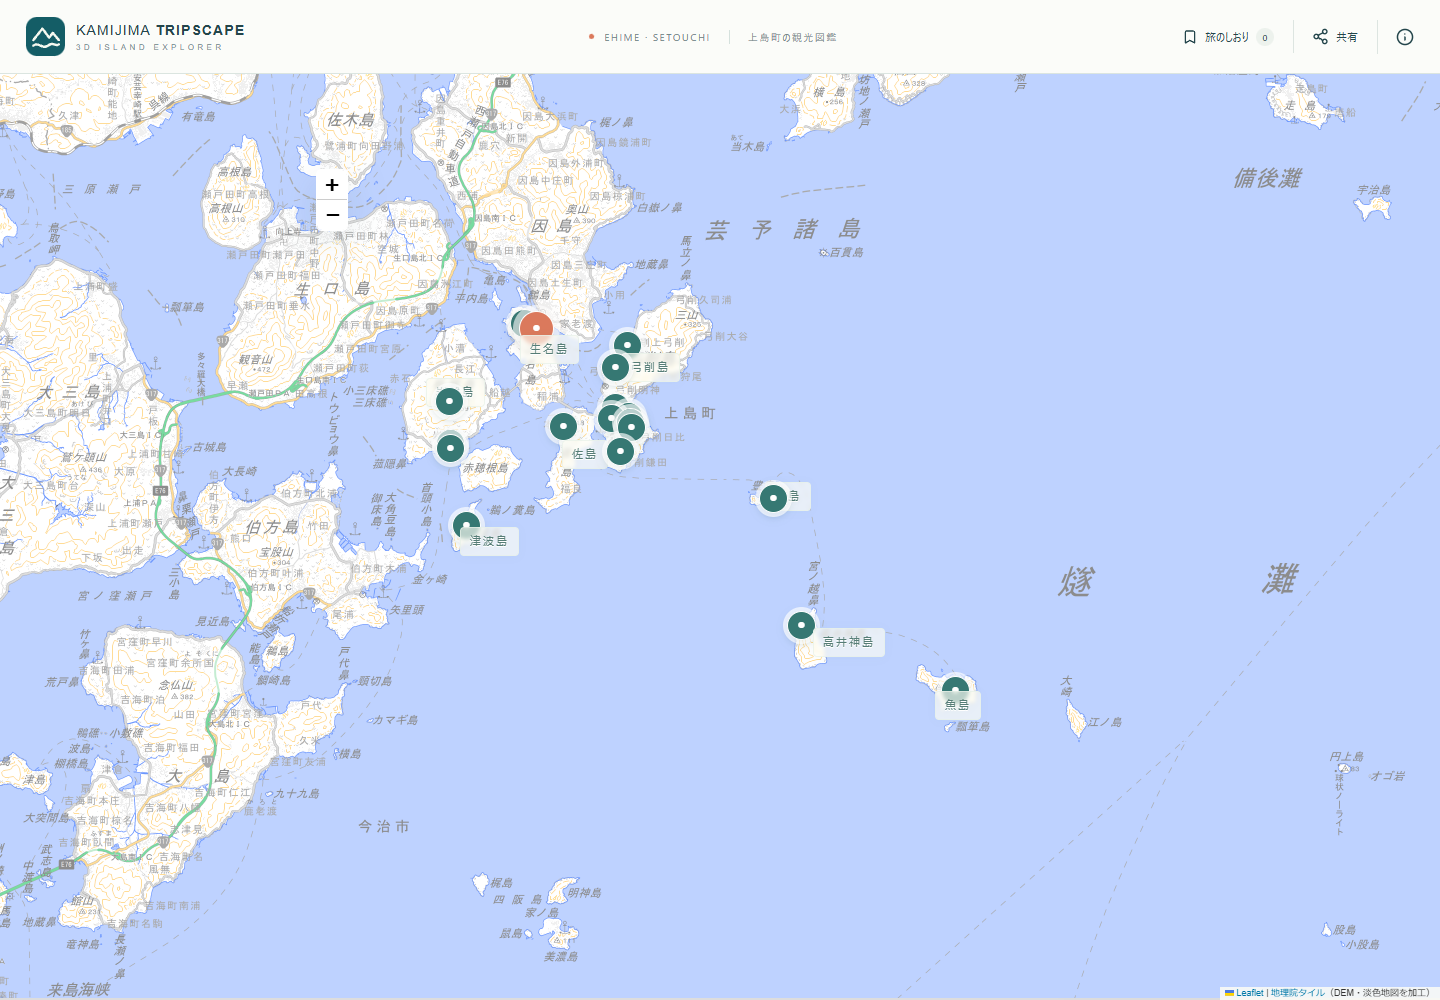
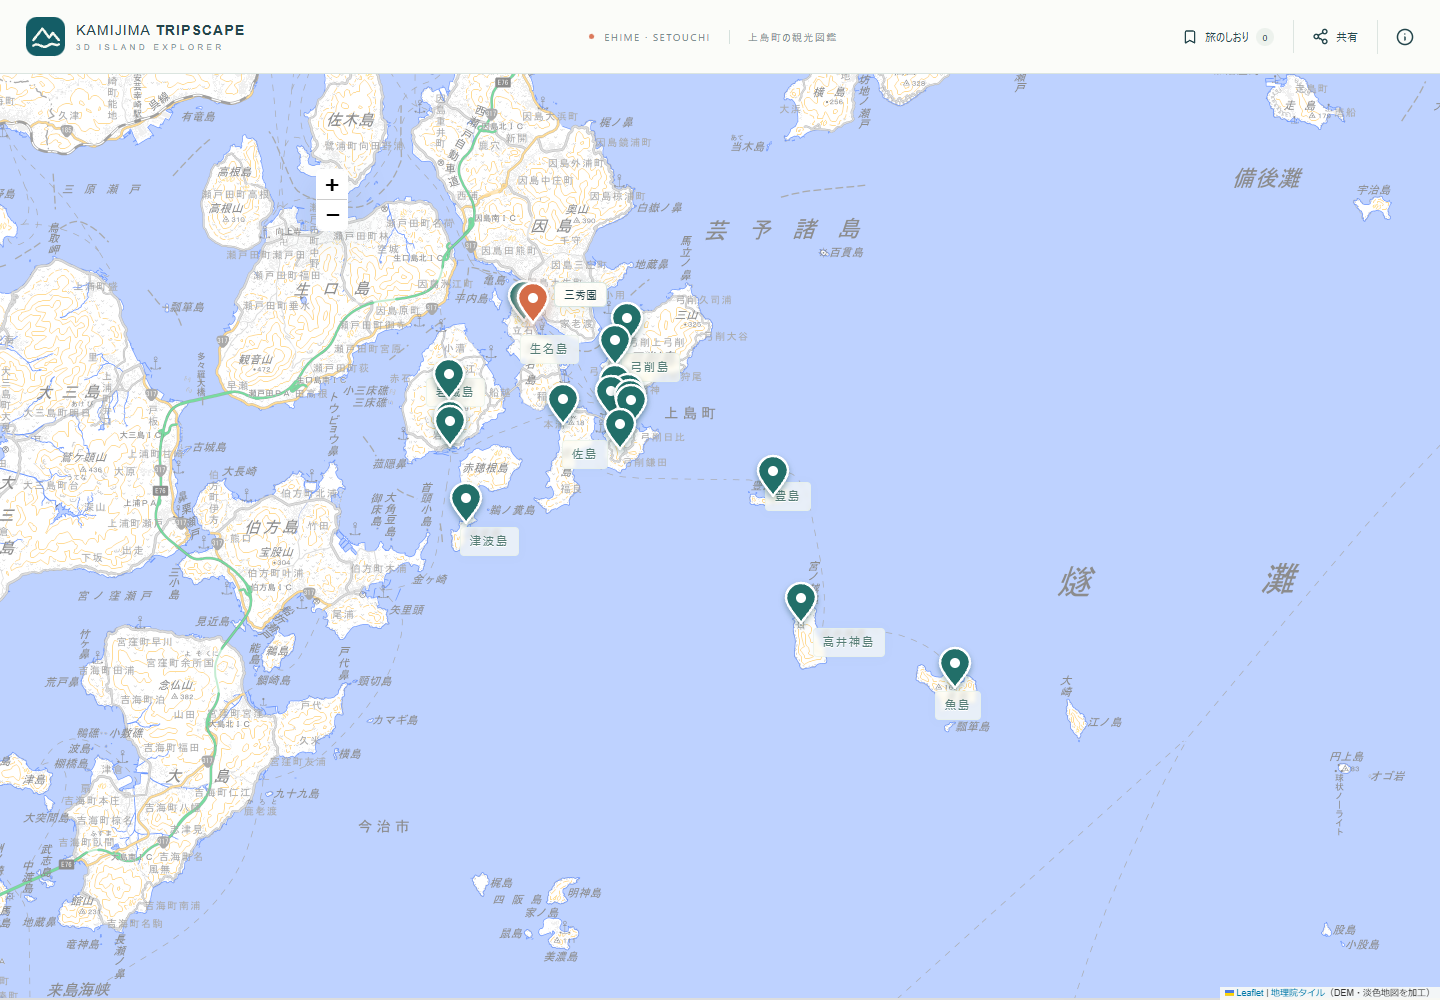
Show tourism spots as anchored map pins in 3D and 2D

diff --git a/src/MapView.tsx b/src/MapView.tsx
@@ -12,6 +12,15 @@ const localTiles=(folder:string)=>new URL(`${base}${folder}/{z}/{x}/{y}.png`,loc
 const bounds:[number,number,number,number]=[133.05,34.10,133.43,34.34];
 const attribution='<a href="https://maps.gsi.go.jp/development/ichiran.html" target="_blank" rel="noopener">地理院タイル</a>（DEM・淡色地図を加工）';
 const emptyGeo={type:'FeatureCollection' as const,features:[]};
+function createPoiMarker(p:Poi,selected:boolean,onPoi:(id:string)=>void){
+  const el=document.createElement('button');el.className=`poi-marker ${selected?'selected':''}`;
+  el.type='button';el.title=p.name;el.dataset.poiId=p.id;
+  el.setAttribute('aria-label',`地図で${p.name}を開く`);el.setAttribute('aria-pressed',String(selected));
+  const pin=document.createElement('span');pin.className='marker-pin';pin.setAttribute('aria-hidden','true');
+  pin.innerHTML='<svg viewBox="0 0 34 44" xmlns="http://www.w3.org/2000/svg"><path d="M17 42C14 37 2 26 2 17a15 15 0 0 1 30 0c0 9-12 20-15 25Z" fill="currentColor" stroke="white" stroke-width="2.5" stroke-linejoin="round"/><circle cx="17" cy="17" r="5" fill="white"/></svg>';
+  const label=document.createElement('span');label.className='marker-name';label.textContent=p.name;
+  el.append(pin,label);el.addEventListener('click',e=>{e.stopPropagation();onPoi(p.id);});return el;
+}
 export function createMapStyle():StyleSpecification {
   return {version:8,sources:{
     base:{type:'raster',tiles:[localTiles('basemap')],tileSize:256,minzoom:8,maxzoom:14,bounds,attribution},
@@ -79,12 +88,8 @@ export default function MapView(props:Props){
     const m=map.current;if(!m||!ready)return;
     markers.current.forEach(v=>v.remove());markers.current.clear();
     for(const p of props.visible.filter(publicPoi)){
-      const el=document.createElement('button');el.className=`poi-marker ${p.id===props.selected?'selected':''}`;
-      el.setAttribute('aria-label',`地図で${p.name}を開く`);el.setAttribute('data-poi-id',p.id);
-      const dot=document.createElement('span');dot.textContent=p.categories.includes('食')?'•':p.categories.includes('宿泊')?'⌂':p.categories.includes('アート')?'◇':'•';
-      el.append(dot);const label=document.createElement('span');label.className='marker-name';label.textContent=p.name;el.append(label);
-      el.addEventListener('click',e=>{e.stopPropagation();latest.current.onPoi(p.id);});
-      markers.current.set(p.id,new maplibregl.Marker({element:el,anchor:'center'}).setLngLat([p.coordinates.lng!,p.coordinates.lat!]).addTo(m));
+      const el=createPoiMarker(p,p.id===props.selected,id=>latest.current.onPoi(id));
+      markers.current.set(p.id,new maplibregl.Marker({element:el,anchor:'bottom'}).setLngLat([p.coordinates.lng!,p.coordinates.lat!]).addTo(m));
     }
   },[ready,props.visible,props.selected]);
   useEffect(()=>{
@@ -155,8 +160,8 @@ function RasterMap(props:Props){
     import('leaflet').then(L=>{
       group.current?.clearLayers();
       for(const p of props.visible.filter(publicPoi)){
-        const el=document.createElement('button');el.className=`poi-marker ${p.id===props.selected?'selected':''}`;el.textContent='•';el.setAttribute('aria-label',`地図で${p.name}を開く`);el.onclick=()=>latest.current.onPoi(p.id);
-        L.marker([p.coordinates.lat!,p.coordinates.lng!],{icon:L.divIcon({html:el,className:'poi-leaflet',iconSize:[28,28],iconAnchor:[14,14]})}).addTo(group.current!);
+        const el=createPoiMarker(p,p.id===props.selected,id=>latest.current.onPoi(id));
+        L.marker([p.coordinates.lat!,p.coordinates.lng!],{icon:L.divIcon({html:el,className:'poi-leaflet',iconSize:[44,48],iconAnchor:[22,48]}),zIndexOffset:p.id===props.selected?1000:0}).addTo(group.current!);
       }
     });
   },[loaded,props.visible,props.selected]);

diff --git a/src/styles.css b/src/styles.css
@@ -7,3 +7,10 @@
 @media (prefers-reduced-motion:reduce){*{animation:none!important;transition:none!important;scroll-behavior:auto!important}}
 .island-suggestions h2{font-size:10px;color:#6c8e80;padding:12px 20px 4px;font-weight:500}.island-suggestions .result-copy>small:last-child{white-space:normal;line-height:1.8;margin-top:7px}.island-suggestions a{display:flex;align-items:center;gap:6px;font-size:10px;padding:3px 20px 13px;color:#5e857c}.island-marker{z-index:2}.poi-marker{z-index:1}.poi-marker.selected{z-index:3}
 .access-card>.coordinate-note{padding:9px 10px;border-left:2px solid #a8beb0;background:#fafcf6;color:#6a8171;line-height:1.8}
+.poi-marker,.poi-marker.selected{width:44px;height:48px;border:0;border-radius:0;background:none;box-shadow:none;padding:0;color:#226f69;overflow:visible}
+.poi-marker.selected{color:#d56c47}
+.marker-pin{position:absolute;bottom:0;left:5px;width:34px;height:44px;pointer-events:none;filter:drop-shadow(0 3px 3px #194b4a66)}
+.marker-pin svg{display:block;width:100%;height:100%}
+.poi-marker.selected .marker-pin{filter:drop-shadow(0 0 4px #fff) drop-shadow(0 3px 4px #994c3266)}
+.poi-marker .marker-name{left:43px;top:5px;font-size:11px;padding:6px 9px;border:1px solid #d7e5df}
+@media(max-width:760px){.poi-marker .marker-name{font-size:10px}}
